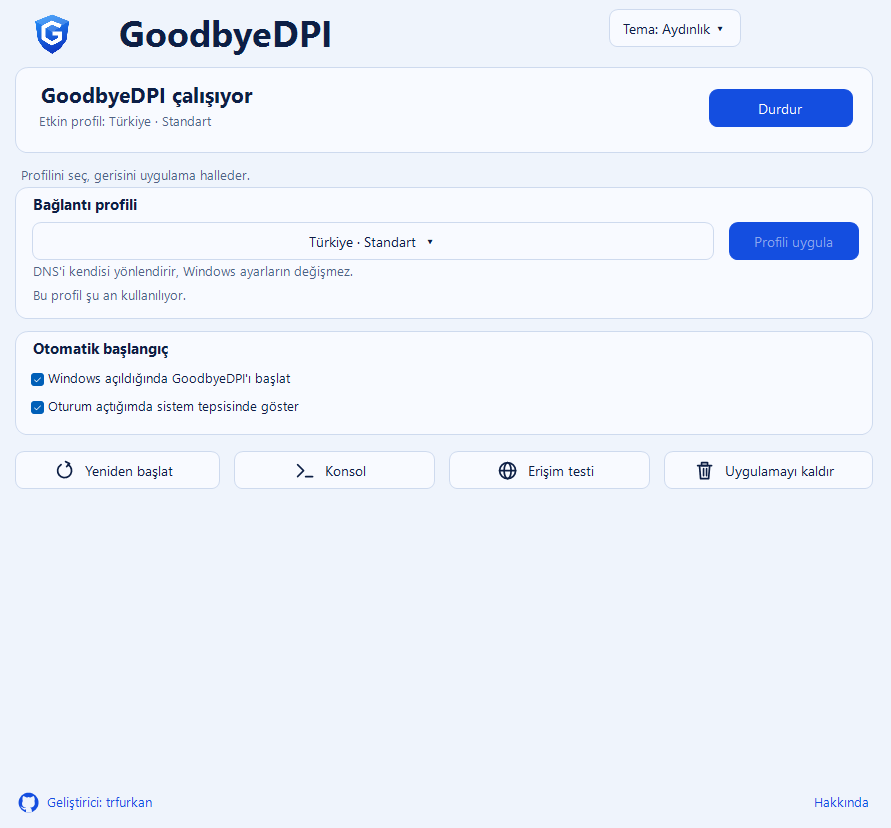
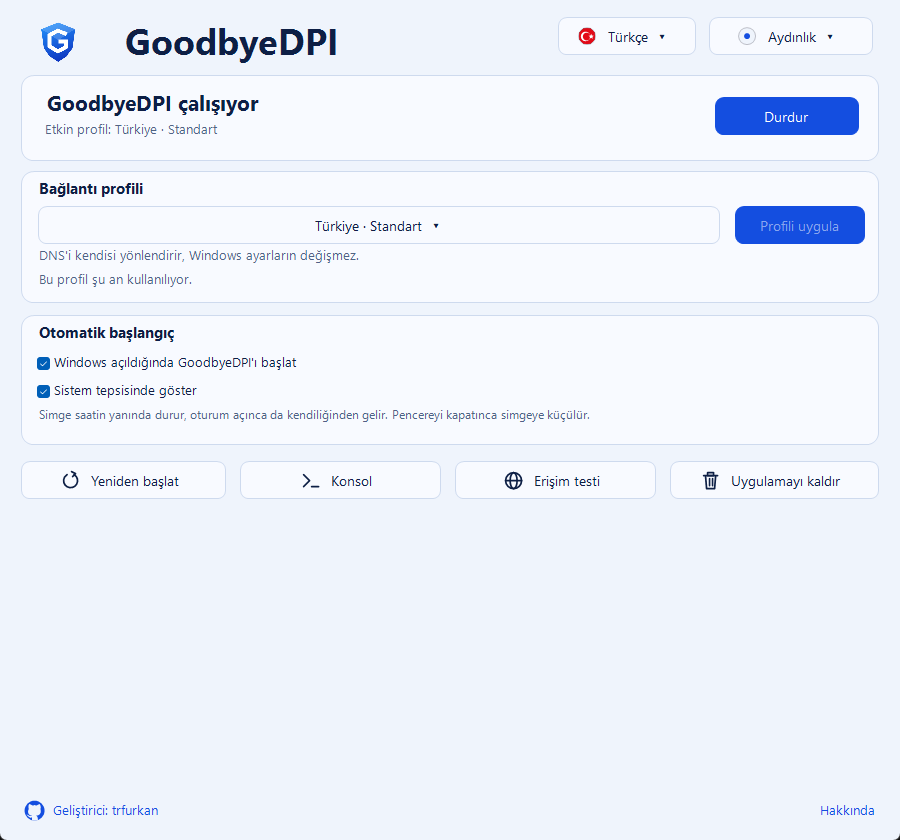
Tanıtım sayfası görselleri 1.7.2'ye göre yenilendi
Ana pencere, erişim testi, konsol, Hakkında ve kurulum görüntüleri güncel
sürümden alındı. Sayfaya altı temayı ve tema/dil menülerini gösteren
"Temalar ve diller" bölümü eklendi.

diff --git a/docs/index.html b/docs/index.html
@@ -83,6 +83,9 @@ h1 { font-size: clamp(34px, 5vw, 50px); line-height: 1.12; margin: 0 0 18px; let
 .btn:hover { filter: brightness(1.08); }
 .meta { margin-top: 14px; font-size: 14px; color: var(--muted); }
 .shot { border-radius: 14px; overflow: hidden; border: 1px solid var(--border); box-shadow: var(--shadow); background: var(--surface); }
+.gallery { margin: 0 auto; }
+.menus { display: flex; gap: 20px; justify-content: center; align-items: flex-start; flex-wrap: wrap; margin-top: 24px; }
+.menus img { border-radius: 12px; box-shadow: var(--shadow); }
 section { padding: 56px 0; border-top: 1px solid var(--border); }
 h2 { font-size: 30px; margin: 0 0 12px; letter-spacing: -.3px; }
 .section-lead { color: var(--muted); margin: 0 0 32px; max-width: 680px; }
@@ -141,7 +144,7 @@ footer p { margin: 4px 0; }
    <div class="shot">
     <picture>
      <source srcset="images/main-light.png" media="(prefers-color-scheme: light)">
-     <img src="images/main-dark.png" width="883" height="819" alt="GoodbyeDPI Tray ana penceresi: GoodbyeDPI çalışıyor, Türkiye · Standart profili etkin">
+     <img src="images/main-dark.png" width="900" height="840" alt="GoodbyeDPI Tray ana penceresi: GoodbyeDPI çalışıyor, Türkiye · Standart profili etkin">
     </picture>
    </div>
   </div>
@@ -172,6 +175,16 @@ footer p { margin: 4px 0; }
    </div>
   </section>
 
+  <section aria-labelledby="temalar">
+   <h2 id="temalar">Temalar ve diller</h2>
+   <p class="section-lead">Aydınlık ve Karanlık'ın yanında beş renkli tema var. Dili de tema düğmesinin yanındaki bayraktan Türkçe, İngilizce ya da Rusça yapabilirsin.</p>
+   <img class="gallery" src="images/themes.png" width="932" height="576" alt="GoodbyeDPI Tray altı farklı temada: Okyanus, Sakura, Güneş Batımı, Android, Şampanya ve Aydınlık" loading="lazy">
+   <div class="menus">
+    <img src="images/menu-theme.png" width="316" height="422" alt="Tema menüsü: Aydınlık, Karanlık, Okyanus, Sakura, Güneş Batımı, Android, Şampanya ve Windows'a uy" loading="lazy">
+    <img src="images/menu-language.png" width="216" height="184" alt="Dil menüsü: Türkçe, English, Русский, yuvarlak bayraklarla" loading="lazy">
+   </div>
+  </section>
+
   <section aria-labelledby="erisim-testi">
    <div class="split">
     <div>
@@ -181,7 +194,7 @@ footer p { margin: 4px 0; }
     <div class="shot">
      <picture>
       <source srcset="images/access-light.png" media="(prefers-color-scheme: light)">
-      <img src="images/access-dark.png" width="706" height="436" alt="Erişim testi penceresi: engelli ve normal sitelerin bağlantı sonuçları" loading="lazy">
+      <img src="images/access-dark.png" width="720" height="548" alt="Erişim testi penceresi: engelli ve normal sitelerin bağlantı sonuçları" loading="lazy">
      </picture>
     </div>
    </div>
